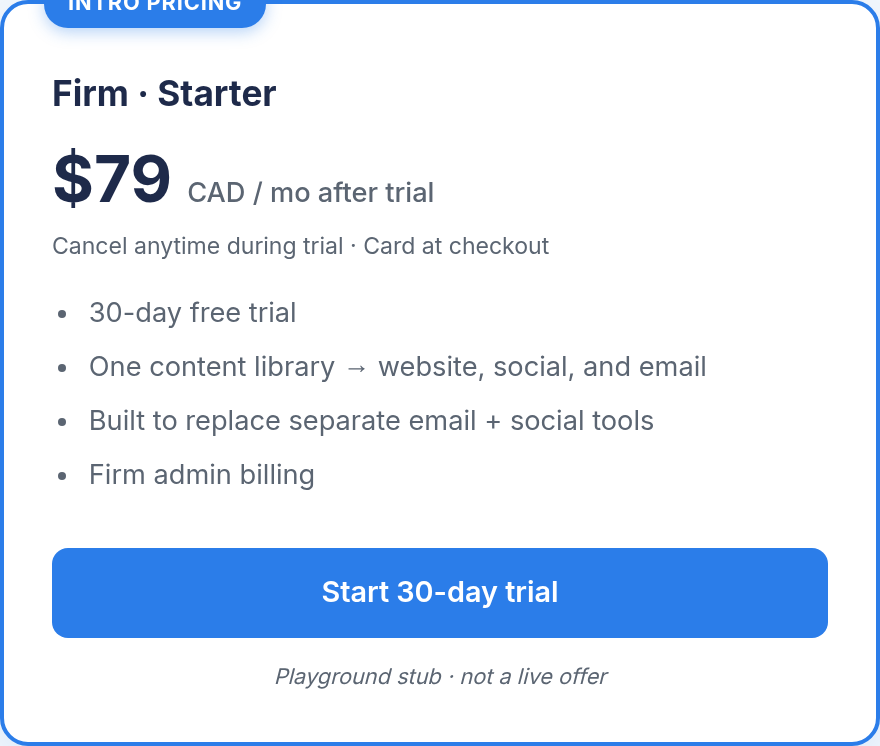
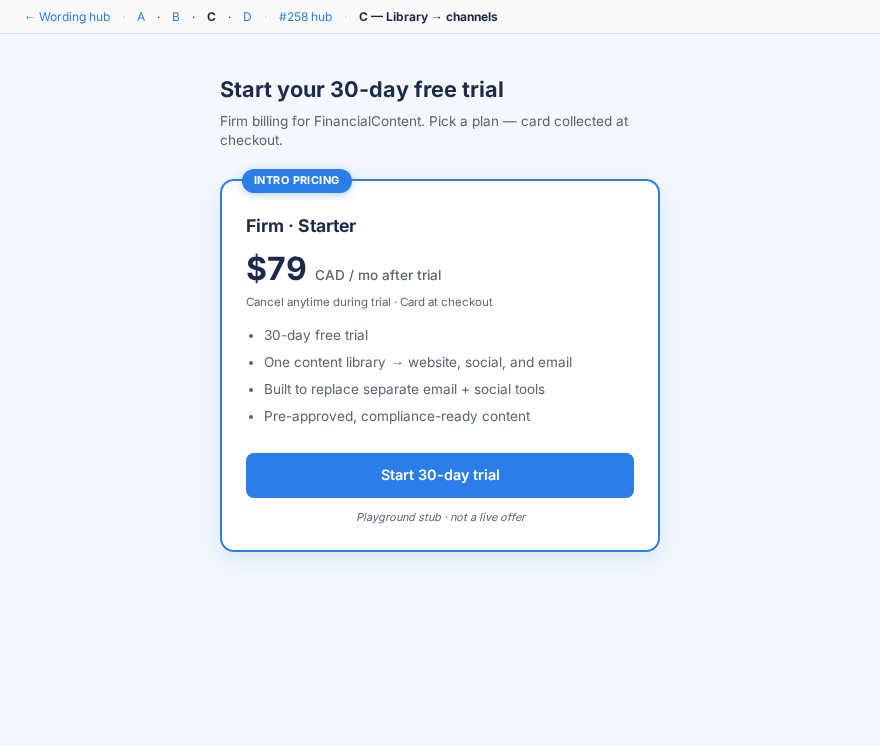
258: pricing wording — drop firm billing, add compliance

diff --git a/258/pricing-wording/index.html b/258/pricing-wording/index.html
@@ -97,7 +97,7 @@
     <div class="hero-inner">
       <div class="eyebrow">#258 · Direction A layout lock · wording study</div>
       <h1>Pricing card wording variants A–D</h1>
-      <p>Same layout: single <strong>Firm · Starter</strong> at <strong>$79 CAD/mo after trial</strong>, Intro pricing ribbon, 30-day trial + firm admin billing. Only bullet copy changes. CoS/Alex: pick one label (A–D).</p>
+      <p>Same layout: single <strong>Firm · Starter</strong> at <strong>$79 CAD/mo after trial</strong>, Intro pricing ribbon, 30-day trial + a compliance bullet. Only bullet copy changes. CoS/Alex: pick one label (A–D).</p>
     </div>
   </header>
   <nav class="nav">
@@ -133,7 +133,7 @@
             <li>30-day free trial</li>
             <li>Publish to website, social & email</li>
             <li>Replace Mailchimp + Hootsuite-style tools</li>
-            <li>Firm admin billing</li>
+            <li>Compliance-approved content</li>
         </ul>
         <a class="btn" href="a/index.html">Start 30-day trial</a>
         <p class="ph">Playground stub · not a live offer</p>
@@ -156,7 +156,7 @@
             <li>30-day free trial</li>
             <li>Website, social & email campaigns in one place</li>
             <li>Drop the Mailchimp + social-scheduler stack</li>
-            <li>Firm admin billing</li>
+            <li>Compliance-ready content library</li>
         </ul>
         <a class="btn" href="b/index.html">Start 30-day trial</a>
         <p class="ph">Playground stub · not a live offer</p>
@@ -179,7 +179,7 @@
             <li>30-day free trial</li>
             <li>One content library → website, social, and email</li>
             <li>Built to replace separate email + social tools</li>
-            <li>Firm admin billing</li>
+            <li>Pre-approved, compliance-ready content</li>
         </ul>
         <a class="btn" href="c/index.html">Start 30-day trial</a>
         <p class="ph">Playground stub · not a live offer</p>
@@ -202,7 +202,7 @@
             <li>30-day free trial</li>
             <li>Publish content to your site, social, and email</li>
             <li>All-in-one alternative to Mailchimp & Hootsuite</li>
-            <li>Firm admin billing</li>
+            <li>Compliance-approved content library</li>
         </ul>
         <a class="btn" href="d/index.html">Start 30-day trial</a>
         <p class="ph">Playground stub · not a live offer</p>

diff --git a/258/pricing-wording/c/index.html b/258/pricing-wording/c/index.html
@@ -77,7 +77,7 @@
             <li>30-day free trial</li>
             <li>One content library → website, social, and email</li>
             <li>Built to replace separate email + social tools</li>
-            <li>Firm admin billing</li>
+            <li>Pre-approved, compliance-ready content</li>
         </ul>
         <a class="btn" href="#">Start 30-day trial</a>
         <p class="ph">Playground stub · not a live offer</p>

diff --git a/258/pricing-wording/d/index.html b/258/pricing-wording/d/index.html
@@ -77,7 +77,7 @@
             <li>30-day free trial</li>
             <li>Publish content to your site, social, and email</li>
             <li>All-in-one alternative to Mailchimp & Hootsuite</li>
-            <li>Firm admin billing</li>
+            <li>Compliance-approved content library</li>
         </ul>
         <a class="btn" href="#">Start 30-day trial</a>
         <p class="ph">Playground stub · not a live offer</p>

diff --git a/258/pricing-wording/b/index.html b/258/pricing-wording/b/index.html
@@ -77,7 +77,7 @@
             <li>30-day free trial</li>
             <li>Website, social & email campaigns in one place</li>
             <li>Drop the Mailchimp + social-scheduler stack</li>
-            <li>Firm admin billing</li>
+            <li>Compliance-ready content library</li>
         </ul>
         <a class="btn" href="#">Start 30-day trial</a>
         <p class="ph">Playground stub · not a live offer</p>

diff --git a/258/pricing-wording/a/index.html b/258/pricing-wording/a/index.html
@@ -77,7 +77,7 @@
             <li>30-day free trial</li>
             <li>Publish to website, social & email</li>
             <li>Replace Mailchimp + Hootsuite-style tools</li>
-            <li>Firm admin billing</li>
+            <li>Compliance-approved content</li>
         </ul>
         <a class="btn" href="#">Start 30-day trial</a>
         <p class="ph">Playground stub · not a live offer</p>
